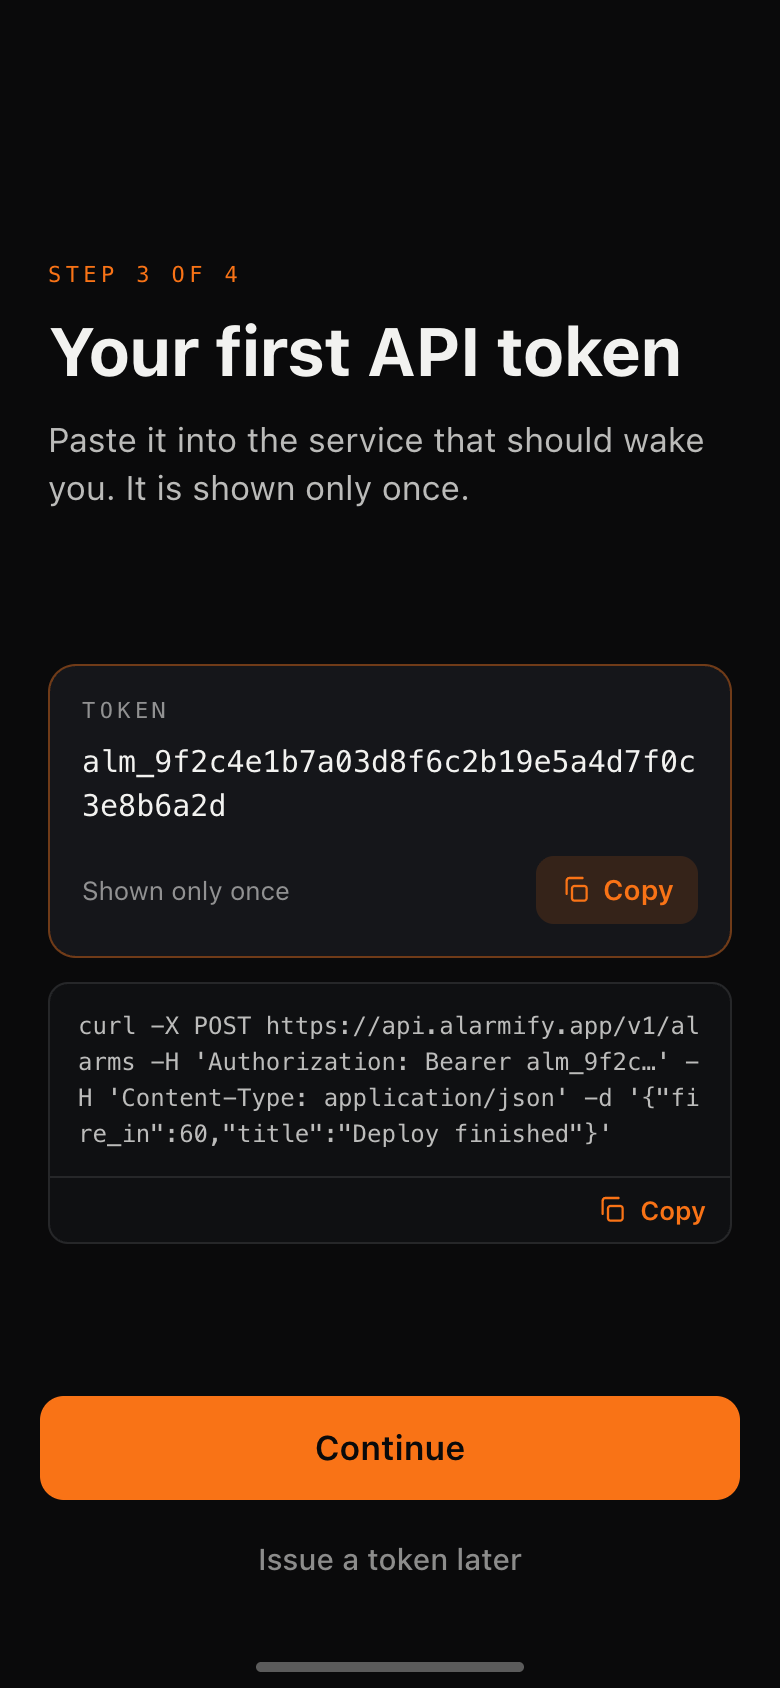
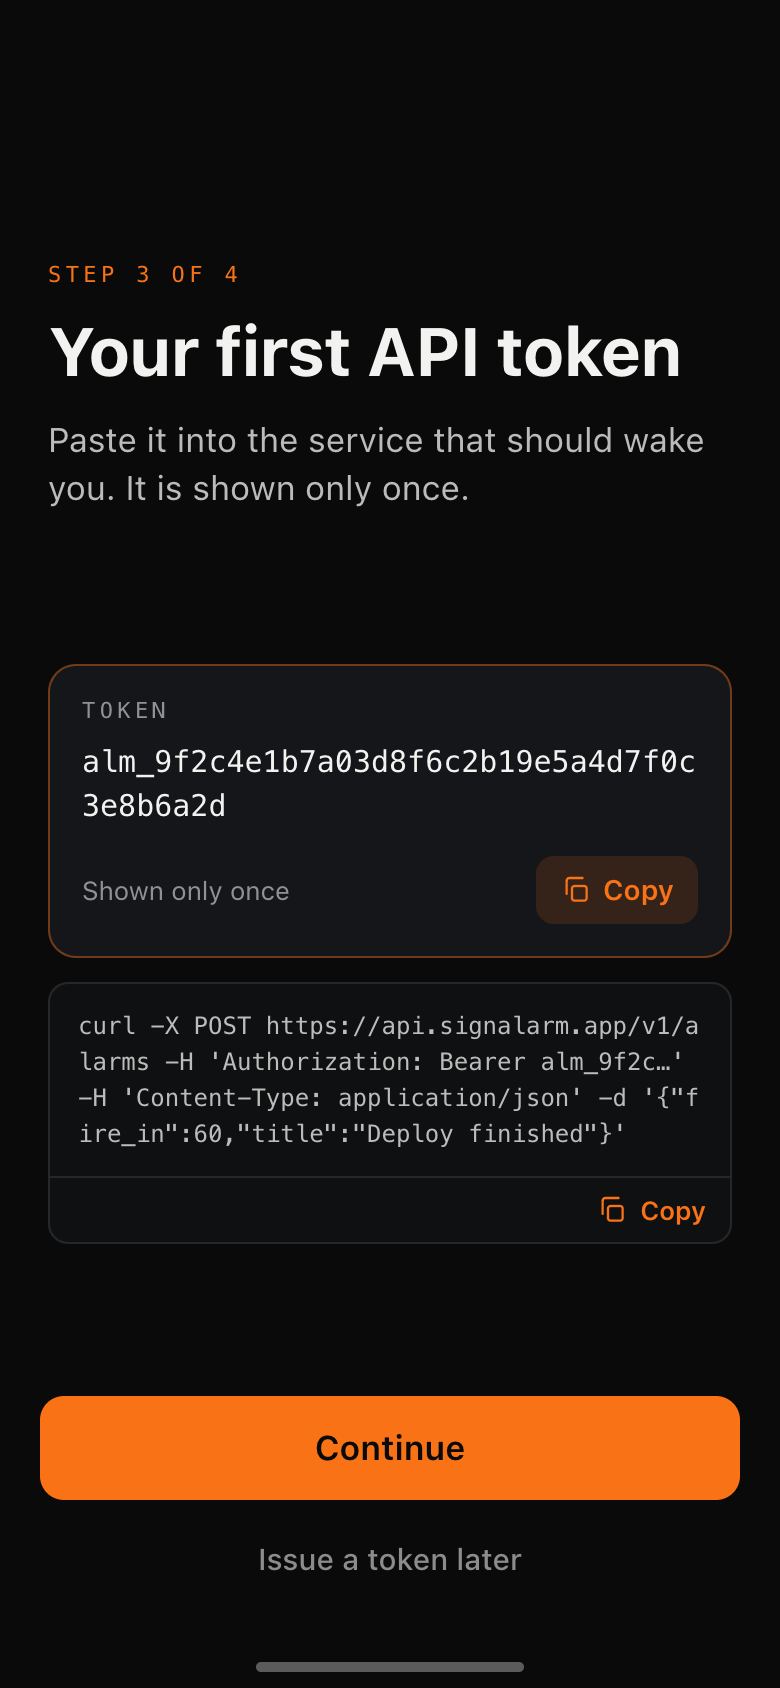
design_handoff の API ホストとリファレンス URL を signalarm.app に揃える
build.mjs の curl 例を api.signalarm.app に変え、node design_handoff/canvas/build.mjs で該当 6 アートボードを再生成し、PNG を撮り直した。screens/recipes.md の API リファレンスのリンク先も signalarm.app/api に差し替えた (アプリの RecipesView と一致)。

Refs #56

Changed region(s): [[0.0923, 0.5853, 0.8923, 0.6777], [0.8615, 0.6469, 0.8923, 0.6777]]

diff --git a/design_handoff/canvas/TokensDark.dc.html b/design_handoff/canvas/TokensDark.dc.html
@@ -51,7 +51,7 @@
          </div>
          
   <div style="background: #0F1012; border: 1px solid rgba(242,242,240,0.10); border-radius: 10px; overflow: hidden">
-    <div style="padding: 12px 14px; font-family: ui-monospace, 'SF Mono', Menlo, Consolas, monospace; font-size: 12px; line-height: 18px; color: rgba(242,242,240,0.76); white-space: pre-wrap; word-break: break-all">curl -X POST https://api.alarmify.app/v1/alarms -H 'Authorization: Bearer alm_9f2c…' -H 'Content-Type: application/json' -d '{"fire_in":60,"title":"Deploy finished"}'</div>
+    <div style="padding: 12px 14px; font-family: ui-monospace, 'SF Mono', Menlo, Consolas, monospace; font-size: 12px; line-height: 18px; color: rgba(242,242,240,0.76); white-space: pre-wrap; word-break: break-all">curl -X POST https://api.signalarm.app/v1/alarms -H 'Authorization: Bearer alm_9f2c…' -H 'Content-Type: application/json' -d '{"fire_in":60,"title":"Deploy finished"}'</div>
     <div style="display: flex; align-items: center; justify-content: flex-end; gap: 6px; padding: 8px 12px; border-top: 1px solid rgba(242,242,240,0.10); font-size: 13px; font-weight: 600; color: #F97316"><svg width="16" height="16" viewBox="0 0 24 24" fill="none" stroke="#F97316" stroke-width="1.75" stroke-linecap="round" stroke-linejoin="round" aria-hidden="true"><rect x="9" y="9" width="11" height="11" rx="2"/><path d="M5 15V5a2 2 0 0 1 2-2h10"/></svg><span>Copy</span></div>
   </div>
          <div style="display: flex; gap: 8px; flex-wrap: wrap; align-items: center">

diff --git a/design_handoff/canvas/TokensLight.dc.html b/design_handoff/canvas/TokensLight.dc.html
@@ -51,7 +51,7 @@
          </div>
          
   <div style="background: #ECECE9; border: 1px solid rgba(17,17,19,0.10); border-radius: 10px; overflow: hidden">
-    <div style="padding: 12px 14px; font-family: ui-monospace, 'SF Mono', Menlo, Consolas, monospace; font-size: 12px; line-height: 18px; color: rgba(17,17,19,0.72); white-space: pre-wrap; word-break: break-all">curl -X POST https://api.alarmify.app/v1/alarms -H 'Authorization: Bearer alm_9f2c…' -H 'Content-Type: application/json' -d '{"fire_in":60,"title":"Deploy finished"}'</div>
+    <div style="padding: 12px 14px; font-family: ui-monospace, 'SF Mono', Menlo, Consolas, monospace; font-size: 12px; line-height: 18px; color: rgba(17,17,19,0.72); white-space: pre-wrap; word-break: break-all">curl -X POST https://api.signalarm.app/v1/alarms -H 'Authorization: Bearer alm_9f2c…' -H 'Content-Type: application/json' -d '{"fire_in":60,"title":"Deploy finished"}'</div>
     <div style="display: flex; align-items: center; justify-content: flex-end; gap: 6px; padding: 8px 12px; border-top: 1px solid rgba(17,17,19,0.10); font-size: 13px; font-weight: 600; color: #C2410C"><svg width="16" height="16" viewBox="0 0 24 24" fill="none" stroke="#C2410C" stroke-width="1.75" stroke-linecap="round" stroke-linejoin="round" aria-hidden="true"><rect x="9" y="9" width="11" height="11" rx="2"/><path d="M5 15V5a2 2 0 0 1 2-2h10"/></svg><span>Copy</span></div>
   </div>
          <div style="display: flex; gap: 8px; flex-wrap: wrap; align-items: center">

diff --git a/design_handoff/canvas/OnboardingTokenDark.dc.html b/design_handoff/canvas/OnboardingTokenDark.dc.html
@@ -39,7 +39,7 @@
         </div>
         
   <div style="background: #0F1012; border: 1px solid rgba(242,242,240,0.10); border-radius: 10px; overflow: hidden">
-    <div style="padding: 12px 14px; font-family: ui-monospace, 'SF Mono', Menlo, Consolas, monospace; font-size: 12px; line-height: 18px; color: rgba(242,242,240,0.76); white-space: pre-wrap; word-break: break-all">curl -X POST https://api.alarmify.app/v1/alarms -H 'Authorization: Bearer alm_9f2c…' -H 'Content-Type: application/json' -d '{"fire_in":60,"title":"Deploy finished"}'</div>
+    <div style="padding: 12px 14px; font-family: ui-monospace, 'SF Mono', Menlo, Consolas, monospace; font-size: 12px; line-height: 18px; color: rgba(242,242,240,0.76); white-space: pre-wrap; word-break: break-all">curl -X POST https://api.signalarm.app/v1/alarms -H 'Authorization: Bearer alm_9f2c…' -H 'Content-Type: application/json' -d '{"fire_in":60,"title":"Deploy finished"}'</div>
     <div style="display: flex; align-items: center; justify-content: flex-end; gap: 6px; padding: 8px 12px; border-top: 1px solid rgba(242,242,240,0.10); font-size: 13px; font-weight: 600; color: #F97316"><svg width="16" height="16" viewBox="0 0 24 24" fill="none" stroke="#F97316" stroke-width="1.75" stroke-linecap="round" stroke-linejoin="round" aria-hidden="true"><rect x="9" y="9" width="11" height="11" rx="2"/><path d="M5 15V5a2 2 0 0 1 2-2h10"/></svg><span>Copy</span></div>
   </div>
       </div></div>

diff --git a/design_handoff/canvas/OnboardingTokenLight.dc.html b/design_handoff/canvas/OnboardingTokenLight.dc.html
@@ -39,7 +39,7 @@
         </div>
         
   <div style="background: #ECECE9; border: 1px solid rgba(17,17,19,0.10); border-radius: 10px; overflow: hidden">
-    <div style="padding: 12px 14px; font-family: ui-monospace, 'SF Mono', Menlo, Consolas, monospace; font-size: 12px; line-height: 18px; color: rgba(17,17,19,0.72); white-space: pre-wrap; word-break: break-all">curl -X POST https://api.alarmify.app/v1/alarms -H 'Authorization: Bearer alm_9f2c…' -H 'Content-Type: application/json' -d '{"fire_in":60,"title":"Deploy finished"}'</div>
+    <div style="padding: 12px 14px; font-family: ui-monospace, 'SF Mono', Menlo, Consolas, monospace; font-size: 12px; line-height: 18px; color: rgba(17,17,19,0.72); white-space: pre-wrap; word-break: break-all">curl -X POST https://api.signalarm.app/v1/alarms -H 'Authorization: Bearer alm_9f2c…' -H 'Content-Type: application/json' -d '{"fire_in":60,"title":"Deploy finished"}'</div>
     <div style="display: flex; align-items: center; justify-content: flex-end; gap: 6px; padding: 8px 12px; border-top: 1px solid rgba(17,17,19,0.10); font-size: 13px; font-weight: 600; color: #C2410C"><svg width="16" height="16" viewBox="0 0 24 24" fill="none" stroke="#C2410C" stroke-width="1.75" stroke-linecap="round" stroke-linejoin="round" aria-hidden="true"><rect x="9" y="9" width="11" height="11" rx="2"/><path d="M5 15V5a2 2 0 0 1 2-2h10"/></svg><span>Copy</span></div>
   </div>
       </div></div>

diff --git a/design_handoff/canvas/RecipeDetailDark.dc.html b/design_handoff/canvas/RecipeDetailDark.dc.html
@@ -50,7 +50,7 @@
     STATUS: ${{ job.status }}
   run: |
     curl -sS --fail-with-body -X POST \
-      https://api.alarmify.app/v1/alarms \
+      https://api.signalarm.app/v1/alarms \
       -H "Authorization: Bearer $ALARMIFY_TOKEN" \
       -H "Content-Type: application/json" \
       -d "$(jq -cn --arg title \

diff --git a/design_handoff/canvas/RecipeDetailLight.dc.html b/design_handoff/canvas/RecipeDetailLight.dc.html
@@ -50,7 +50,7 @@
     STATUS: ${{ job.status }}
   run: |
     curl -sS --fail-with-body -X POST \
-      https://api.alarmify.app/v1/alarms \
+      https://api.signalarm.app/v1/alarms \
       -H "Authorization: Bearer $ALARMIFY_TOKEN" \
       -H "Content-Type: application/json" \
       -d "$(jq -cn --arg title \

diff --git a/design_handoff/screens/recipes.md b/design_handoff/screens/recipes.md
@@ -7,7 +7,7 @@
 1. ナビ: `< Signalarm` / `Integration recipes`
 2. リード (15/21 `fg2`、左右 20): `Every recipe ends with one request to POST /v1/alarms. Snippets already carry your token.` (`POST /v1/alarms` は等幅 13)。トークン未発行なら 2 文目を `Issue an API token to see these snippets with your token filled in.` (既存文言) にする
 3. レシピの行 (13×16): 名前 17 semibold (固有名詞。翻訳しない) / 概要 13/18 `fg3` (既存の `summary`) / シェブロン。順序は `IntegrationRecipe.allCases`
-4. **Reference** セクション: `API reference` (本のアイコン) → `https://bannzai.github.io/Alarmify/api`
+4. **Reference** セクション: `API reference` (本のアイコン) → `https://signalarm.app/api`
 
 ## 詳細 (GitHub Actions を代表に)
 
